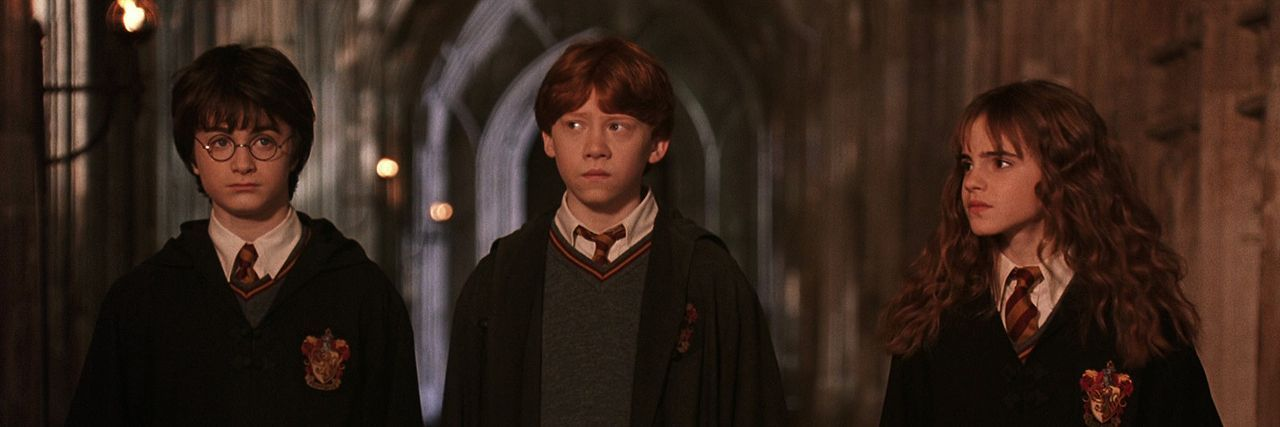
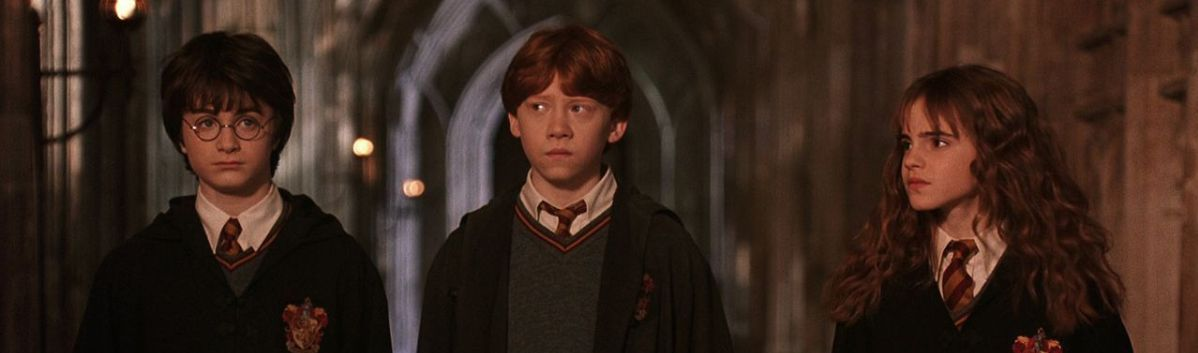
Bootstrap Carrousel

diff --git a/index.html b/index.html
@@ -5,6 +5,8 @@
   <meta charset="UTF-8" />
   <meta name="viewport" content="width=device-width, initial-scale=1.0" />
   <link rel="stylesheet" href="css/style.css" />
+  <link href="https://cdn.jsdelivr.net/npm/bootstrap@5.3.1/dist/css/bootstrap.min.css" rel="stylesheet" integrity="sha384-4bw+/aepP/YC94hEpVNVgiZdgIC5+VKNBQNGCHeKRQN+PtmoHDEXuppvnDJzQIu9" crossorigin="anonymous">
+  <script src="https://cdn.jsdelivr.net/npm/bootstrap@5.3.1/dist/js/bootstrap.bundle.min.js" integrity="sha384-HwwvtgBNo3bZJJLYd8oVXjrBZt8cqVSpeBNS5n7C8IVInixGAoxmnlMuBnhbgrkm" crossorigin="anonymous"></script>
   <title>Harry Potter: Sorting Hat</title>
   <link rel="icon" type="image/png" href="img/favicon.png" />
 </head>
@@ -23,7 +25,27 @@
     </nav>
   </header>
   <main>
-    <img class="banner" src="img/banner.jpg" alt="Harry Potter, Ron Weaseley and Hermione Granger" />
+    <div id="carouselExampleAutoplaying" class="carousel slide" data-bs-ride="carousel">
+      <div class="carousel-inner">
+        <div class="carousel-item active">
+          <img src="img/banner.jpg" class="d-block w-100" alt="...">
+        </div>
+        <div class="carousel-item">
+          <img src="img/banner1.jpg" class="d-block w-100" alt="...">
+        </div>
+        <div class="carousel-item">
+          <img src="img/banner2.jpg" class="d-block w-100" alt="...">
+        </div>
+      </div>
+      <button class="carousel-control-prev" type="button" data-bs-target="#carouselExampleAutoplaying" data-bs-slide="prev">
+        <span class="carousel-control-prev-icon" aria-hidden="true"></span>
+        <span class="visually-hidden">Previous</span>
+      </button>
+      <button class="carousel-control-next" type="button" data-bs-target="#carouselExampleAutoplaying" data-bs-slide="next">
+        <span class="carousel-control-next-icon" aria-hidden="true"></span>
+        <span class="visually-hidden">Next</span>
+      </button>
+    </div>
     
     <section class="hat-section">
       <div><img src="img/sorting-hat.png" alt="The sorting hat from Harry Potter" /></div>

diff --git a/html/comments.html b/html/comments.html
@@ -5,6 +5,8 @@
   <meta charset="UTF-8" />
   <meta name="viewport" content="width=device-width, initial-scale=1.0" />
   <link rel="stylesheet" href="../css/style.css" />
+  <link href="https://cdn.jsdelivr.net/npm/bootstrap@5.3.1/dist/css/bootstrap.min.css" rel="stylesheet" integrity="sha384-4bw+/aepP/YC94hEpVNVgiZdgIC5+VKNBQNGCHeKRQN+PtmoHDEXuppvnDJzQIu9" crossorigin="anonymous">
+  <script src="https://cdn.jsdelivr.net/npm/bootstrap@5.3.1/dist/js/bootstrap.bundle.min.js" integrity="sha384-HwwvtgBNo3bZJJLYd8oVXjrBZt8cqVSpeBNS5n7C8IVInixGAoxmnlMuBnhbgrkm" crossorigin="anonymous"></script>
   <script src="../js/script.js"></script>
   <title>Comments - Harry Potter: Sorting Hat</title>
   <link rel="icon" type="image/png" href="../img/favicon.png" />

diff --git a/html/quizz.html b/html/quizz.html
@@ -5,6 +5,8 @@
   <meta charset="UTF-8" />
   <meta name="viewport" content="width=device-width, initial-scale=1.0" />
   <link rel="stylesheet" href="../css/style.css" />
+  <link href="https://cdn.jsdelivr.net/npm/bootstrap@5.3.1/dist/css/bootstrap.min.css" rel="stylesheet" integrity="sha384-4bw+/aepP/YC94hEpVNVgiZdgIC5+VKNBQNGCHeKRQN+PtmoHDEXuppvnDJzQIu9" crossorigin="anonymous">
+  <script src="https://cdn.jsdelivr.net/npm/bootstrap@5.3.1/dist/js/bootstrap.bundle.min.js" integrity="sha384-HwwvtgBNo3bZJJLYd8oVXjrBZt8cqVSpeBNS5n7C8IVInixGAoxmnlMuBnhbgrkm" crossorigin="anonymous"></script>
   <script src="../js/script.js"></script>
   <title>Quizz - Harry Potter: Sorting Hat</title>
   <link rel="icon" type="image/png" href="../img/favicon.png" />

diff --git a/html/about.html b/html/about.html
@@ -5,6 +5,8 @@
   <meta charset="UTF-8" />
   <meta name="viewport" content="width=device-width, initial-scale=1.0" />
   <link rel="stylesheet" href="../css/style.css" />
+  <link href="https://cdn.jsdelivr.net/npm/bootstrap@5.3.1/dist/css/bootstrap.min.css" rel="stylesheet" integrity="sha384-4bw+/aepP/YC94hEpVNVgiZdgIC5+VKNBQNGCHeKRQN+PtmoHDEXuppvnDJzQIu9" crossorigin="anonymous">
+  <script src="https://cdn.jsdelivr.net/npm/bootstrap@5.3.1/dist/js/bootstrap.bundle.min.js" integrity="sha384-HwwvtgBNo3bZJJLYd8oVXjrBZt8cqVSpeBNS5n7C8IVInixGAoxmnlMuBnhbgrkm" crossorigin="anonymous"></script>
   <title>About - Harry Potter: Sorting Hat</title>
   <link rel="icon" type="image/png" href="../img/favicon.png" />
 </head>

diff --git a/html/books.html b/html/books.html
@@ -5,6 +5,8 @@
   <meta charset="UTF-8" />
   <meta name="viewport" content="width=device-width, initial-scale=1.0" />
   <link rel="stylesheet" href="../css/style.css" />
+  <link href="https://cdn.jsdelivr.net/npm/bootstrap@5.3.1/dist/css/bootstrap.min.css" rel="stylesheet" integrity="sha384-4bw+/aepP/YC94hEpVNVgiZdgIC5+VKNBQNGCHeKRQN+PtmoHDEXuppvnDJzQIu9" crossorigin="anonymous">
+  <script src="https://cdn.jsdelivr.net/npm/bootstrap@5.3.1/dist/js/bootstrap.bundle.min.js" integrity="sha384-HwwvtgBNo3bZJJLYd8oVXjrBZt8cqVSpeBNS5n7C8IVInixGAoxmnlMuBnhbgrkm" crossorigin="anonymous"></script>
   <title>Books - Harry Potter: Sorting Hat</title>
   <link rel="icon" type="image/png" href="../img/favicon.png" />
 </head>

diff --git a/css/style.css b/css/style.css
@@ -50,8 +50,12 @@ ul {
     padding: 0px;
 }
 
-a {
+body a{
     text-decoration: none;
+    color: rgb(114, 32, 32);
+    font-family: ptserif-regular;
+    margin: 0px;
+    padding: 0px;
 }
 
 .banner {
